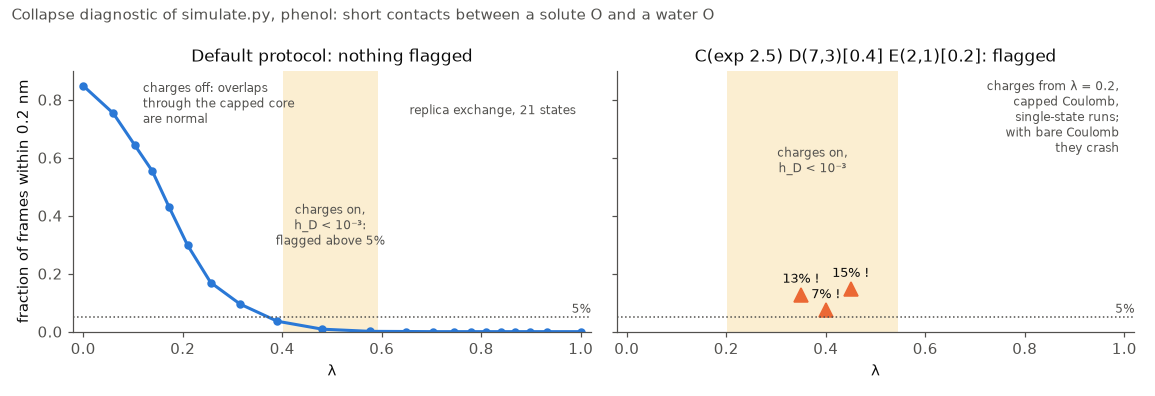
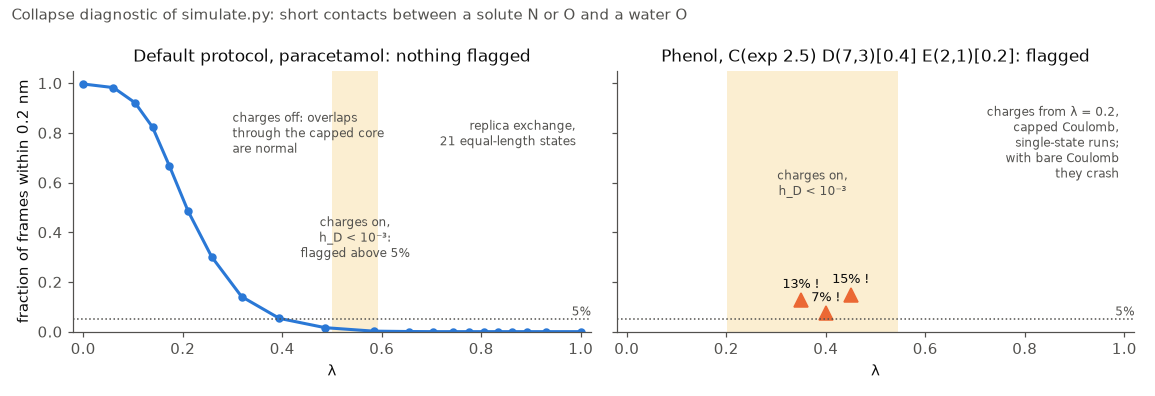
Default protocol charges after the decapping starts
The default becomes C(exp 2.5) D(8,2)[0.4] E(2,1)[0.5] Q=E: the same
decapping as before, with E(2,1) from 0.5 instead of E(3,1) from 0.4.
Searched with a_E from a to a + 0.2, it keeps the largest ratio to the
four solutes' own best I_var (1.08) and halves the charging hazard, from
0.13 to 0.07. In the phenol pool, the sampled fused configuration stays
62 kT from favorable at every charged state, against 11 kT before. A
paracetamol run on equal-length states confirms it: nothing flagged,
acceptance and round trips as before, pooled I_var 368.6 against 368.0
predicted.

search.py now scores a_E = a, a + 0.05 and a + 0.1 by default, and places
the states of --next with every window start on the grid. RESULTS.md
recomputes the summary table (phenol from its three runs pooled) and adds
the late-charging search, the fused-state margin and h_D = lambda^12;
the figures that show the default are regenerated.

Claude-Session: https://claude.ai/code/session_01MYqeKr7zajrmsWQZaFzP1D

diff --git a/applications/lbf_optimization/search.py b/applications/lbf_optimization/search.py
@@ -17,8 +17,9 @@ is flat. A protocol counts as explored if the Kish effective sample size is at l
 The family (see RESULTS.md): the capped Lennard-Jones term C is the exponential (e^(b lambda) - 1)/(e^b - 1)
 with b from --bC (polynomial steps for C only with --m0C and --m1C); the Lennard-Jones decapping D is a
 polynomial step over [a, 1] with onset power m0 + 1 >= 8, so that var(du/dlambda) is finite where it
-starts; the electrostatics E are a polynomial step over [aE, 1] with aE >= a, and the Coulomb decapping Q
-follows E (bare Coulomb; --Q D scores the capped-Coulomb scheme). Protocols whose charging hazard,
+starts; the electrostatics E are a polynomial step over [aE, 1] with aE >= a (by default a, a + 0.05 and
+a + 0.1: charging after the decapping has started lowers the charging hazard at little cost), and the
+Coulomb decapping Q follows E (bare Coulomb; --Q D scores the capped-Coulomb scheme). Protocols whose charging hazard,
 max h_E/h_C where h_D < 0.001, exceeds --max_hazard are left out: above it a water can fuse onto a solute
 acceptor between the sampled states, which the samples rarely contain and so the scores rarely see. The
 ranking is by I_var, the cost of uniform sampling in lambda. With --next, the best explored protocol
@@ -64,7 +65,10 @@ def parse_args():
     families.add_argument("--m1D", type=int_range, default="1:3", help="m1 of the decapping step D")
     families.add_argument("--m0E", type=int_range, default="1:3", help="m0 of the electrostatics step E")
     families.add_argument("--m1E", type=int_range, default="1:3", help="m1 of the electrostatics step E")
-    families.add_argument("--aE", type=float, nargs="+", metavar="A", help="starts of the window of E, each >= a (default: a)")
+    families.add_argument(
+        "--aE", type=float, nargs="+", metavar="A",
+        help="starts of the window of E, each >= a (default: a, a + 0.05 and a + 0.1)",
+    )
     families.add_argument(
         "--Q", choices=("D", "E"), nargs="+", default=["E"],
         help="which term the Coulomb decapping follows: E for bare Coulomb, D for capped Coulomb",
@@ -104,8 +108,11 @@ def parse_args():
     args = parser.parse_args()
     if not 0 < args.a < 1:
         parser.error("--a must lie in (0, 1)")
-    if args.aE is not None and min(args.aE) < args.a:
-        parser.error("every --aE must be at least --a: the charges follow the decapping")
+    if args.aE is None:
+        args.aE = [round(args.a + step, 6) for step in (0.0, 0.05, 0.1) if args.a + step < 1]
+    if min(args.aE) < args.a or max(args.aE) >= 1:
+        parser.error("every --aE must lie in [a, 1): the charges follow the decapping")
+    args.aE = sorted(set(args.aE))
     return args
 
 
@@ -114,10 +121,9 @@ def candidates(args):
     decap = [(m0, m1, args.a) for m0, m1 in itertools.product(args.m0D, args.m1D)]
     if args.smooth_d:
         decap.append((SMOOTH, 0, args.a))
-    starts = [args.a] if args.aE is None else sorted(set(args.aE))
     for C in capped:
         for D in decap:
-            for E in itertools.product(args.m0E, args.m1E, starts):
+            for E in itertools.product(args.m0E, args.m1E, args.aE):
                 for tie in args.Q:
                     yield Protocol((C, D, D if tie == "D" else E, E))
 
@@ -192,7 +198,7 @@ def main():
     protocols = [p for p in protocols if p.charging_hazard() <= args.max_hazard]
     if not protocols:
         raise SystemExit("no protocol in the family satisfies the constraints; widen the family or --max_hazard")
-    breaks = [args.a] + (args.aE or [])
+    breaks = [args.a] + args.aE
     references = [Protocol.parse(text) for text in ["paper", DEFAULT_PROTOCOL] + args.reference]
     print(f"{len(protocols)} protocols with the decapping window at a = {args.a:g}")
 
@@ -245,7 +251,7 @@ def main():
             chosen = protocols[ranked[0]]
         else:
             raise SystemExit("no explored protocol to place states for; give --choose")
-        grid = np.unique(np.concatenate([np.linspace(0.0, 1.0, 401), [args.a]]))
+        grid = np.unique(np.concatenate([np.linspace(0.0, 1.0, 401), breaks]))
         _, var, ess = reweighter.profile([chosen], grid)
         lambdas = equal_length_lambdas(grid, np.sqrt(var[0]), args.states)
         with open(args.next, "w") as f:

diff --git a/applications/lbf_optimization/lbf.py b/applications/lbf_optimization/lbf.py
@@ -48,7 +48,7 @@ TERMS = ("C", "D", "Q", "E")
 PARAMS = {"C": "lambdaLJ", "D": "lambdaD", "Q": "lambdaQD", "E": "lambdaQ"}
 SMOOTH = -1  # m0 of the C-infinity step psi(x) = f(x)/(f(x) + f(1-x)), f(x) = exp(-1/x)
 EXP = -2  # m0 of the exponential (e^(bx) - 1)/(e^b - 1); the m1 slot holds the rate b
-DEFAULT_PROTOCOL = "C(exp 2.5) D(8,2)[0.4] E(3,1)[0.4] Q=E"
+DEFAULT_PROTOCOL = "C(exp 2.5) D(8,2)[0.4] E(2,1)[0.5] Q=E"
 DEFAULT_FORCEFIELD = "openff-2.2.1"
 DEFAULT_WATER = "amber/tip3p_standard.xml"
 # What makes two runs samples of different systems: every run stores these, every plan carries them, and
@@ -138,7 +138,7 @@ def smooth_step(x):
 # ----------------------------------------------------------------------------------------------------------
 
 _SPEC = re.compile(r"([CDQE])\((inf|exp[0-9.]+|\d+)(?:,(\d+))?\)(?:\[([0-9.]+)\])?")
-_EXPECTED = "expected e.g. 'C(exp 2.5) D(8,2)[0.4] E(3,1)[0.4] Q=E'"
+_EXPECTED = "expected e.g. 'C(exp 2.5) D(8,2)[0.4] E(2,1)[0.5] Q=E'"
 _TIE = re.compile(r"Q=([DE])")
 
 
@@ -155,7 +155,7 @@ class Protocol:
     """Switching functions of the four terms, as (m0, m1, a) each; m0 = SMOOTH selects the C-infinity step,
     m0 = EXP the exponential with rate b in the m1 slot, and a is the start of the term's window (0 for none).
 
-    The text form is, e.g., "C(exp 2.5) D(8,2)[0.4] E(3,1)[0.4] Q=E", with "C(2,1)" for a polynomial step and
+    The text form is, e.g., "C(exp 2.5) D(8,2)[0.4] E(2,1)[0.5] Q=E", with "C(2,1)" for a polynomial step and
     "D(inf)[0.4]" for the C-infinity step. The Coulomb decapping Q follows D unless the text ties it to E ("Q=E",
     the bare-Coulomb scheme) or gives it its own switching function ("Q(7,2)[0.4]"). "paper" is the protocol
     of Correa et al. (PaperProtocol) and "default" is DEFAULT_PROTOCOL.

diff --git a/applications/lbf_optimization/simulate.py b/applications/lbf_optimization/simulate.py
@@ -3,7 +3,7 @@
 usage: python simulate.py OUTDIR --smiles SMILES [--protocol P] [--nstates 21 | --lambdas ...]
        python simulate.py OUTDIR --plan next.json        (solute, protocol and lambdas from search.py)
 
-The protocol defaults to C(exp 2.5) D(8,2)[0.4] E(3,1)[0.4] Q=E, chosen for four solutes (RESULTS.md).
+The protocol defaults to C(exp 2.5) D(8,2)[0.4] E(2,1)[0.5] Q=E, chosen for four solutes (RESULTS.md).
 The default platform is CUDA; --platform OpenCL or CPU (much slower) run elsewhere.
 
 Each replica has its own Context, so an exchange only swaps the global parameters of two Contexts, never

diff --git a/applications/lbf_optimization/test_lbf.py b/applications/lbf_optimization/test_lbf.py
@@ -363,7 +363,7 @@ def test_help_formatter_shows_defaults():
 def test_default_protocol():
     protocol = Protocol.parse(DEFAULT_PROTOCOL)
     assert str(protocol) == DEFAULT_PROTOCOL and Protocol.parse(" Default ") == protocol
-    assert protocol.charging_hazard() == pytest.approx(0.13, abs=0.01)
+    assert protocol.charging_hazard() == pytest.approx(0.07, abs=0.01)
 
 
 def test_compare_solutes_keeps_the_best_explored(tmp_path):

diff --git a/applications/lbf_optimization/RESULTS.md b/applications/lbf_optimization/RESULTS.md
@@ -1,6 +1,6 @@
 # How the default protocol was chosen
 
-The default protocol of `simulate.py`, `C(exp 2.5) D(8,2)[0.4] E(3,1)[0.4] Q=E`, comes from a pilot on
+The default protocol of `simulate.py`, `C(exp 2.5) D(8,2)[0.4] E(2,1)[0.5] Q=E`, comes from a pilot on
 phenol and a search on three more solutes. This file records what the pilot settled, the
 procedure, and the results, for anyone who wants to repeat it for other solutes, force fields or families.
 All runs used OpenFF Sage 2.2.1 with AM1-BCC charges, TIP3P, a 3 nm box, PME with a 1.0 nm cutoff switched
@@ -9,18 +9,21 @@ defaults of `simulate.py` (the cutoff and switching distance are fixed in `lbf.b
 
 ## Summary
 
-| solute | ΔG (kT) | ΔG (kcal/mol) | I_var (kT²): paper | pilot C(2,1) | default | own best | default over own best |
-|---|---|---|---|---|---|---|---|
-| phenol | −10.56 | −6.26 | 408.9 | 240.1 | 208.3 | 203.7 | 2.3% |
-| methane | +4.10 | +2.43 | 101.3 | 63.4 | 51.4 | 48.1 | 6.9% |
-| anisole | −4.26 | −2.52 | 408.7 | 240.9 | 195.7 | 193.4 | 1.2% |
-| paracetamol | −26.74 | −15.84 | 680.9 | 401.0 | 361.0 | 344.5 | 4.8% |
+| solute | ΔG (kT) | ΔG (kcal/mol) | I_var (kT²): paper | default | own best | default over own best |
+|---|---|---|---|---|---|---|
+| phenol | −10.64 | −6.30 | 408.3 | 211.8 | 203.3 | 4.2% |
+| methane | +4.10 | +2.43 | 101.3 | 51.4 | 47.6 | 8.0% |
+| anisole | −4.26 | −2.52 | 408.7 | 197.2 | 190.5 | 3.5% |
+| paracetamol | −26.74 | −15.84 | 680.9 | 368.0 | 342.0 | 7.6% |
 
 ΔG is the hydration free energy. I_var is the cost of uniform sampling in λ: the simulation time needed for
-a given error scales with it. All values are from the search on each solute's reference run (results 3
-and 5 below). "Own best" is the best protocol found for that solute alone under the same hazard limit of
-0.15. The default costs about half as much as the protocol of Correa et al. (2022) and is within 7% of each
-own best (`compare_solutes.py`). `C(exp 2.5) D(7,1)[0.4] E(3,1)[0.4] Q=E` (hazard 0.15) is as close.
+a given error scales with it. All values are reweighted from each solute's reference run (results 3 and 5
+below; for phenol its three runs pooled), with 512 quadrature nodes split at the window starts. "Own best"
+is the best protocol found for that solute alone under the same hazard limit of 0.15. The default costs
+about half as much as the protocol of Correa et al. (2022) and is within 8% of each own best
+(`compare_solutes.py`). Its charging hazard is 0.07, half the 0.13 of the protocol that charges with the
+decapping and is otherwise the same, `C(exp 2.5) D(8,2)[0.4] E(3,1)[0.4] Q=E`, which costs up to 2% less
+(result 6).
 
 ## What the pilot settled
 
@@ -65,9 +68,9 @@ direct search in λ.
    default or a solute's earlier optimum, on 21 states uniform in λ. Check the collapse diagnostic before
    using the samples.
 3. **Search by reweighting.** Score the family over b ∈ [1, 4]; D with m0 from 7 to 11 and m1 from 1 to 3;
-   window starts a ∈ {0.3, 0.4, 0.5}; E with m0, m1 from 1 to 3 and a_E = a (the `search.py` defaults,
-   one search per a). Keep protocols with Kish ESS ≥ 100 at every quadrature node and hazard ≤ 0.15, and
-   rank by I_var.
+   window starts a ∈ {0.3, 0.4, 0.5}, one search per a; E with m0, m1 from 1 to 3 and a_E = a, and for
+   a = 0.3 and 0.4 also a_E up to a + 0.2 in steps of 0.05 (the `search.py` defaults go to a + 0.1).
+   Keep protocols with Kish ESS ≥ 100 at every quadrature node and hazard ≤ 0.15, and rank by I_var.
 4. **Second round.** Resample the best protocol at equal thermodynamic length (`search.py --next`), pool
    with the reference run and rescore. If the ranking holds and nothing is flagged, the protocol is
    chosen. If I_var/L² exceeds about 1.15, the family is missing a shape and should be extended.
@@ -94,7 +97,7 @@ Steps 1 to 4 were done for phenol, then step 5 for methane, anisole and paraceta
    Its equal-length round confirmed it (pooled I_var 202.3, I_var/L² 1.08, nothing flagged). Neighbor
    acceptance was 0.62 to 0.67, against 0.49 to 0.84 for uniform states, and round trips in 2000
    iterations were 141, against 128 for uniform states and 99 for the pilot's polynomial-step protocol.
-4. **The hazard limit.** A third phenol run, with the protocol that became the default, added a fused
+4. **The hazard limit.** A third phenol run, with `C(exp 2.5) D(8,2)[0.4] E(3,1)[0.4] Q=E`, added a fused
    configuration to the pool, sampled at λ = 0.17 where water passes through the uncharged capped core
    freely. Pooled, protocols above hazard 0.15 mostly lost their effective sample size at some λ (22 of 76
    kept it, against 50 of 51 below). Among them was the phenol protocol of step 3: at λ = 0.48 its fused
@@ -108,18 +111,37 @@ Steps 1 to 4 were done for phenol, then step 5 for methane, anisole and paraceta
    a collapse. The optima agree on b = 2.5 to 3 and differ in D and E orders that
    barely matter, which is why one default serves all four (summary table).
 
-   The paracetamol run of the default, on equal-length states, is the direct check. Nothing was flagged,
-   the weakest neighbor acceptance was 0.52 against 0.36 for the uniform run of the phenol protocol, and
-   there were 76 round trips in 2000 iterations against 60, a gain from both the placement and the
-   protocol. Pooled with the uniform run, the default scores I_var 362 and I_var/L² 1.16.
+   A paracetamol run of `C(exp 2.5) D(8,2)[0.4] E(3,1)[0.4] Q=E` on equal-length states checked the
+   placement: nothing was flagged, the weakest neighbor acceptance was 0.52 against 0.36 for the uniform
+   run of the phenol protocol, and there were 76 round trips in 2000 iterations against 60.
+6. **Charging after the decapping starts.** The searches of 3 and 5 kept a_E = a. Searched again with a_E
+   from a to a + 0.2, every solute's own best charges later than it decaps, and no protocol is
+   meaningfully cheaper for all four than the protocol of 5, but late charging lowers the hazard at little
+   cost. Starting E(2,1) at 0.5 instead of E(3,1) at 0.4 keeps the largest ratio to the own bests (1.08,
+   methane) and halves the hazard, from 0.13 to 0.07; that protocol became the default.
+
+   What the halving buys shows in the phenol pool of 4. The weight its fused configuration (O–Ow 0.099 nm)
+   gets at the worst charged state is e⁻¹¹ under the earlier protocol, where the charges lower it by 13 kT
+   at h_E = 0.003, and e⁻⁶² under the default; it is e⁻¹² at hazard 0.145 and 0.5 to 0.8 at 0.16 to 0.18.
+   A fused state is thus either negligible or dominant in a narrow band of λ, and the default is 60 kT
+   from that edge where the earlier protocol was 11 kT. These weights rest on one sampled configuration.
+
+   The default's paracetamol run, on equal-length states, is the direct check. Nothing was flagged, the
+   weakest neighbor acceptance was 0.52 and there were 75 round trips, as for the earlier protocol.
+   Pooled with the uniform run, it scores I_var 368.6 against 368.0 predicted (the earlier protocol 361.6
+   in the same pool) and I_var/L² 1.17.
+7. **Growing the core from λ = 0.** h_D = λ¹² (`D(11,0)[0]`) grows the decapped core's radius, σh_D^(1/12),
+   linearly in λ, and charges safely from 0.5 (hazard 0.03), but costs 13 to 34% more than the default: it
+   decaps where the capped core is transparent to solvent. Windowed, ((λ − a)/(1 − a))¹² is cheap for
+   methane but reaches h_D = 10⁻³ only 56% into its window, so the hazard is 0.4 to 0.6.
 
 ## Open questions
 
-- **ΔG of paracetamol.** The default run gives −26.99 ± 0.09 kT and the uniform run −26.72 ± 0.10, two
-  standard errors apart; paracetamol may have slow degrees of freedom that 2 ns per state does not
-  average. Independent repeats (`free_energy.py`) would tell. Phenol's three runs agree (−10.68, −10.56,
+- **ΔG of paracetamol.** Its three runs give −26.72 ± 0.10, −26.99 ± 0.09 and −26.81 ± 0.09 kT (mean
+  −26.84, standard deviation 0.14), more spread than their standard errors suggest; paracetamol may have
+  slow degrees of freedom that 2 ns per state does not average. Phenol's three runs agree (−10.68, −10.56,
   −10.65).
-- **The hazard for other solutes.** Neither paracetamol run sampled a fused configuration deep enough to
+- **The hazard for other solutes.** No paracetamol run sampled a fused configuration deep enough to
   probe the hazard as phenol's did, so for paracetamol the limit rests on the phenol evidence.
 - **Validation in λ-dynamics.** Run λ-dynamics with the default and with the paper protocol, several
   independent replicas each, same wall time, and compare the error of ΔG against simulation time

diff --git a/applications/lbf_optimization/README.md b/applications/lbf_optimization/README.md
@@ -21,9 +21,9 @@ to be read and adapted, not used as a library.
 
 ## Quick start
 
-The default protocol, `C(exp 2.5) D(8,2)[0.4] E(3,1)[0.4] Q=E`, was chosen for phenol, methane, anisole and
+The default protocol, `C(exp 2.5) D(8,2)[0.4] E(2,1)[0.5] Q=E`, was chosen for phenol, methane, anisole and
 paracetamol. It needs about half the simulation time of the protocol of Correa et al. for the same error,
-and for each solute it is within 7% of the best protocol found for that solute alone (`RESULTS.md`):
+and for each solute it is within 8% of the best protocol found for that solute alone (`RESULTS.md`):
 
 ![Cost of the default protocol relative to the paper protocol, for four solutes](figures/cost_by_solute.png)
 
@@ -79,12 +79,12 @@ Each term follows S_{m0,m1}(x) = x^(m0+1) P(x), the polynomial step whose first 
 x = 0 and first m1 derivatives at x = 1, or the exponential (e^(bx) − 1)/(e^b − 1). Written as text, a
 protocol is, e.g.,
 
-    C(exp 2.5) D(8,2)[0.4] E(3,1)[0.4] Q=E
+    C(exp 2.5) D(8,2)[0.4] E(2,1)[0.5] Q=E
 
-that is, h_C the exponential with rate 2.5, h_D zero up to a = 0.4 and S_{8,2} over [0.4, 1], h_E S_{3,1}
-over the same window, and the Coulomb decapping tied to E. Q follows D unless the text says `Q=E` or gives
-it a switching function of its own, `Q(7,2)[0.4]`. `D(inf)[0.4]` is a C∞ step, `paper` is the windowed
-S_{2,2} protocol of Correa et al., with bare Coulomb, and `default` is the default protocol.
+that is, h_C the exponential with rate 2.5, h_D zero up to a = 0.4 and S_{8,2} over [0.4, 1], h_E zero up
+to 0.5 and S_{2,1} over [0.5, 1], and the Coulomb decapping tied to E. Q follows D unless the text says
+`Q=E` or gives it a switching function of its own, `Q(7,2)[0.4]`. `D(inf)[0.4]` is a C∞ step, `paper` is
+the windowed S_{2,2} protocol of Correa et al., with bare Coulomb, and `default` is the default protocol.
 
 The exponential is the family for C. Every polynomial step has a zero slope at one end or both, and with
 any of them sd(du/dλ) keeps a peak where the cavity grows, at small λ; the exponential, whose slope is finite
@@ -96,8 +96,9 @@ finite there; whether λ-dynamics minds is still to be tested.
 The decapping window keeps h_D, and the λ-force of decapping, exactly zero while the capped terms are weak.
 Where decapping starts, solvent still overlaps the capped core now and then, and the decapping energy of
 such a configuration is large; du/dλ weights it by dh_D/dλ ∝ x^m0, so the onset power m0 + 1 must be high
-for var(du/dλ) to stay finite there. The searches keep m0 + 1 ≥ 8. The electrostatics have a window too,
-by default the same one.
+for var(du/dλ) to stay finite there. The searches keep m0 + 1 ≥ 8. The electrostatics have a window too.
+The default starts it at 0.5, after the decapping has started: charging at 0.4 with it costs up to 2% less
+but has twice the charging hazard (next section).
 
 ## Charging too early
 
@@ -107,9 +108,10 @@ that charges while h_D is still essentially zero pulls a water onto the solute, 
 crashes with NaN coordinates or holds a fused water (O–Ow ≈ 1 Å).
 
 The rule is a bound on the **charging hazard**, max h_E/h_C wherever h_D < 10⁻³. `search.py` keeps only
-protocols with a hazard of at most 0.15 (`--max_hazard`); the default has 0.13. For phenol, a hazard of 0.5
+protocols with a hazard of at most 0.15 (`--max_hazard`); the default has 0.07. For phenol, a hazard of 0.5
 or more collapses within nanoseconds, and above 0.15 reweighting showed the fused water favorable between
-the sampled states (`RESULTS.md`).
+the sampled states. Below the limit, the same fused configuration stays at least 11 kT from favorable at
+every λ, and about 60 kT under the default (`RESULTS.md`).
 
 `simulate.py` checks it on configurations. Per frame it records the closest approach of a solute N or O
 (every solute heavy atom if it has neither, as for methane) to a water oxygen. At the end it prints, per
@@ -183,8 +185,9 @@ python search.py run0 run1 --a 0.4 --out phenol_a04.npz
 ```
 
 The family is set by options of `search.py`: the rates of the exponential C (`--bC`), the orders of D and
-E (`--m0D`, `--m1D`, `--m0E`, `--m1E`), the window starts (`--a`, and `--aE` ≥ a for E), and the scheme
-(`--Q`). The window start is a fixed choice per search, not a searched variable. The paper protocol, the
+E (`--m0D`, `--m1D`, `--m0E`, `--m1E`), the window starts (`--a`, and `--aE` ≥ a for E, by default a,
+a + 0.05 and a + 0.1), and the scheme (`--Q`). The decapping start a is a fixed choice per search, not a
+searched variable. The paper protocol, the
 default and any `--reference` are scored for comparison, and `--next` writes the plan for the best
 explored protocol, or for `--choose`.
 
